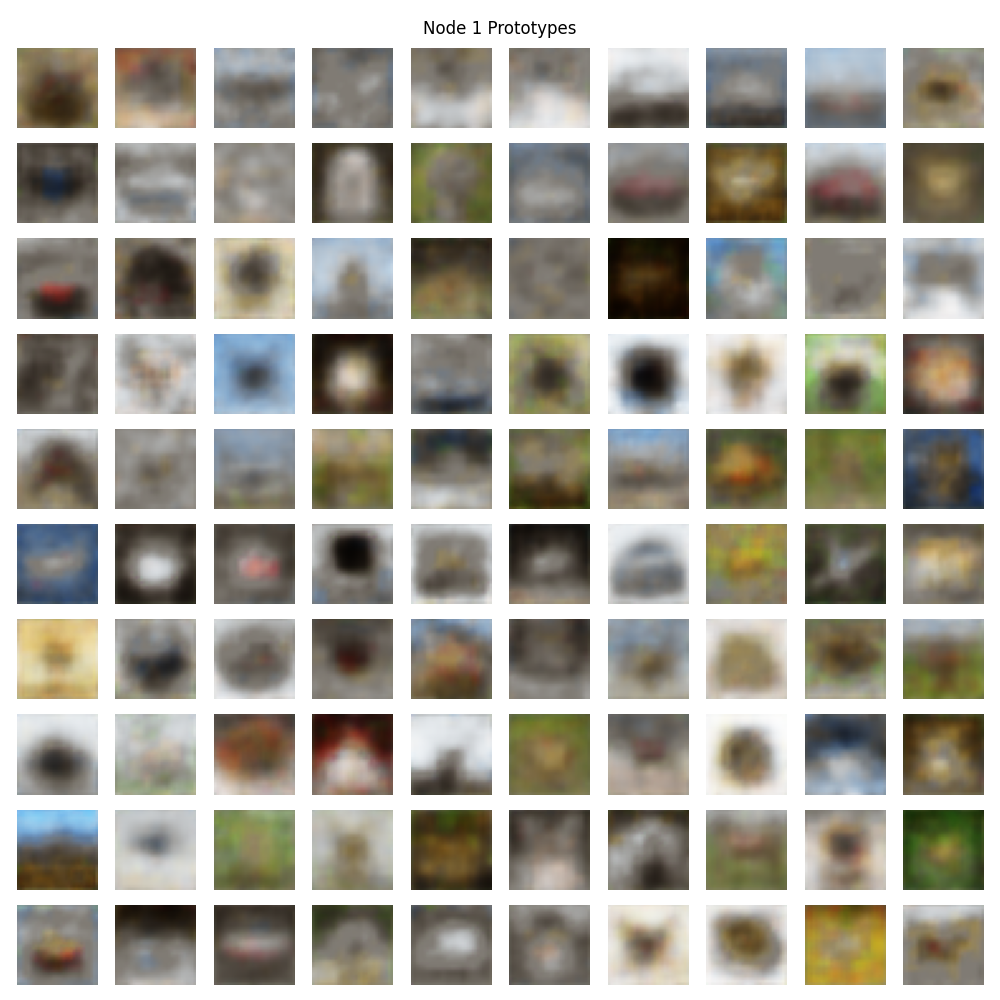
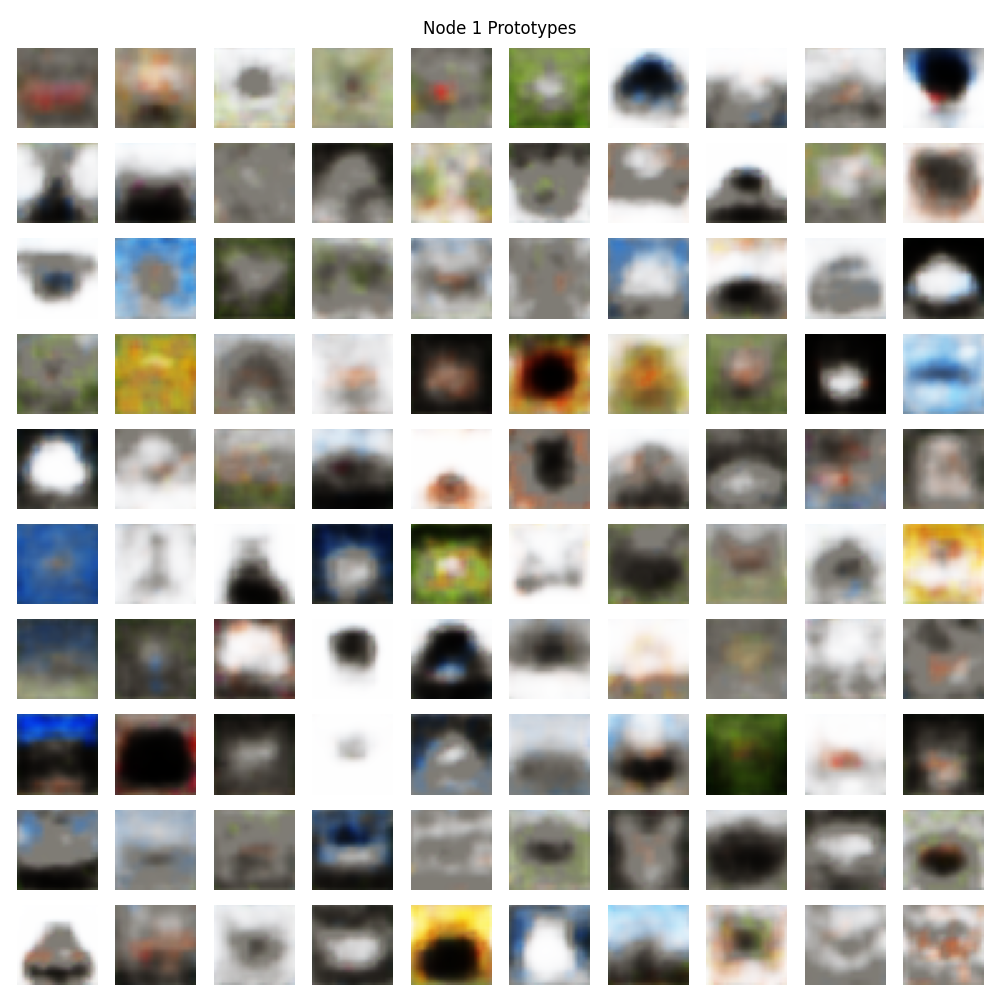
new baseline model with automatic temperature learning

diff --git a/tea/model.py b/tea/model.py
@@ -25,26 +25,30 @@ class Decoder(nn.Module):
 
 # === SoftSOM ===
 class SoftSOM(nn.Module):
-    def __init__(self, input_dim, som_dim, temperature):
+    def __init__(self, input_dim, som_dim, init_temperature=0.5):
         super().__init__()
         self.num_nodes = som_dim * som_dim
-        self.temperature = temperature
         self.prototypes = nn.Parameter(torch.randn(self.num_nodes, input_dim))
+        self.temp_raw = nn.Parameter(torch.tensor([init_temperature], dtype=torch.float32))
+
+    @property
+    def temperature(self):
+        return torch.sigmoid(self.temp_raw) * (1.0 - 1e-3) + 1e-3
 
     def forward(self, x):
         dists = torch.cdist(x.unsqueeze(1), self.prototypes.unsqueeze(0))  # [B, 1, D] vs [1, N, D]
-        weights = F.softmax(-dists.squeeze(1) / self.temperature, dim=-1)  # [B, num_prototypes]
-        blended = weights @ self.prototypes  # [B, D]
+        weights = F.softmax(-dists.squeeze(1) / self.temperature, dim=-1)
+        blended = weights @ self.prototypes
         return blended, weights
 
 # === Node ===
 class Node(nn.Module):
-    def __init__(self, latent_dim, som_dim, temperature):
+    def __init__(self, latent_dim, som_dim):
         super().__init__()
         self.encoder_fc = nn.Linear(latent_dim, latent_dim)
-        self.som = SoftSOM(latent_dim, som_dim, temperature)
+        self.som = SoftSOM(latent_dim, som_dim)
         self.last_input = None
-        self.last_blended = None  # for decoder loss later
+        self.last_blended = None
 
     def forward(self, x):
         z = self.encoder_fc(x)
@@ -56,7 +60,7 @@ class Node(nn.Module):
 # === TEA ===
 class TEA(nn.Module):
     def __init__(self, input_channels=3, latent_dim=256,
-                 num_nodes=4, som_dim=[8, 10, 12, 16], temperature=0.3, num_heads=4):
+                 num_nodes=4, som_dim=[8, 10, 12, 16], num_heads=4):
         super().__init__()
         self.num_nodes = num_nodes
         self.latent_dim = latent_dim
@@ -80,7 +84,7 @@ class TEA(nn.Module):
         ])
 
         self.nodes = nn.ModuleList([
-            Node(latent_dim, som_dim[i], temperature)
+            Node(latent_dim, som_dim[i])
             for i in range(num_nodes)
         ])
 

diff --git a/tea/train_cifar.py b/tea/train_cifar.py
@@ -17,12 +17,11 @@ epochs = 20
 num_nodes_default = 4
 som_dimensions_default = [8, 10, 8, 5]
 latent_dim_default = 256
-temperature_default = 0.8
 # loss coefficients
 recon_loss_λ = 1
-node_div_λ = 0.04
-graph_div_λ = 0.04
-base_usage_λ = 1.25
+node_div_λ = 2
+graph_div_λ = 2
+base_usage_λ = 0.7
 proto_usage_penalty_λ = base_usage_λ * num_nodes_default
 label_smoothing = 0.1
 
@@ -31,7 +30,7 @@ def get_usage_lambda(epoch):
     return proto_usage_penalty_λ * 0.5 * (1 + math.cos(math.pi * epoch / epochs))
 
 # === Model ===
-model = TEA(num_nodes=num_nodes_default, som_dim=som_dimensions_default, latent_dim=latent_dim_default, temperature=temperature_default).to(device)
+model = TEA(num_nodes=num_nodes_default, som_dim=som_dimensions_default, latent_dim=latent_dim_default).to(device)
 optimizer = torch.optim.AdamW(model.parameters(), lr=1e-3, weight_decay=1e-4)
 
 # === Data ===
@@ -119,8 +118,10 @@ for epoch in range(1, epochs+1):
           f"Recon: {total_recon_loss:.4f} | "
           f"Node Similarity: {total_node_div:.4f} | "
           f"Graph Similarity: {total_graph_div:.4f} | "
-          f"Usage Penalty: {total_usage_penalty:.4f} | "
-          f"Duration: {epoch_duration:.2f}s")
+          f"Usage Penalty: {total_usage_penalty:.4f}", end=" | ")
+    for i, node in enumerate(model.nodes):
+        print(f"Node{i}Tmp: {node.som.temperature.item():.4f}", end=" | ")
+    print(f"Duration: {epoch_duration:.2f}s")
 
 torch.save(model.state_dict(), "models/model_tea.pth")
 print("✅ Saved to models/model_tea.pth")
